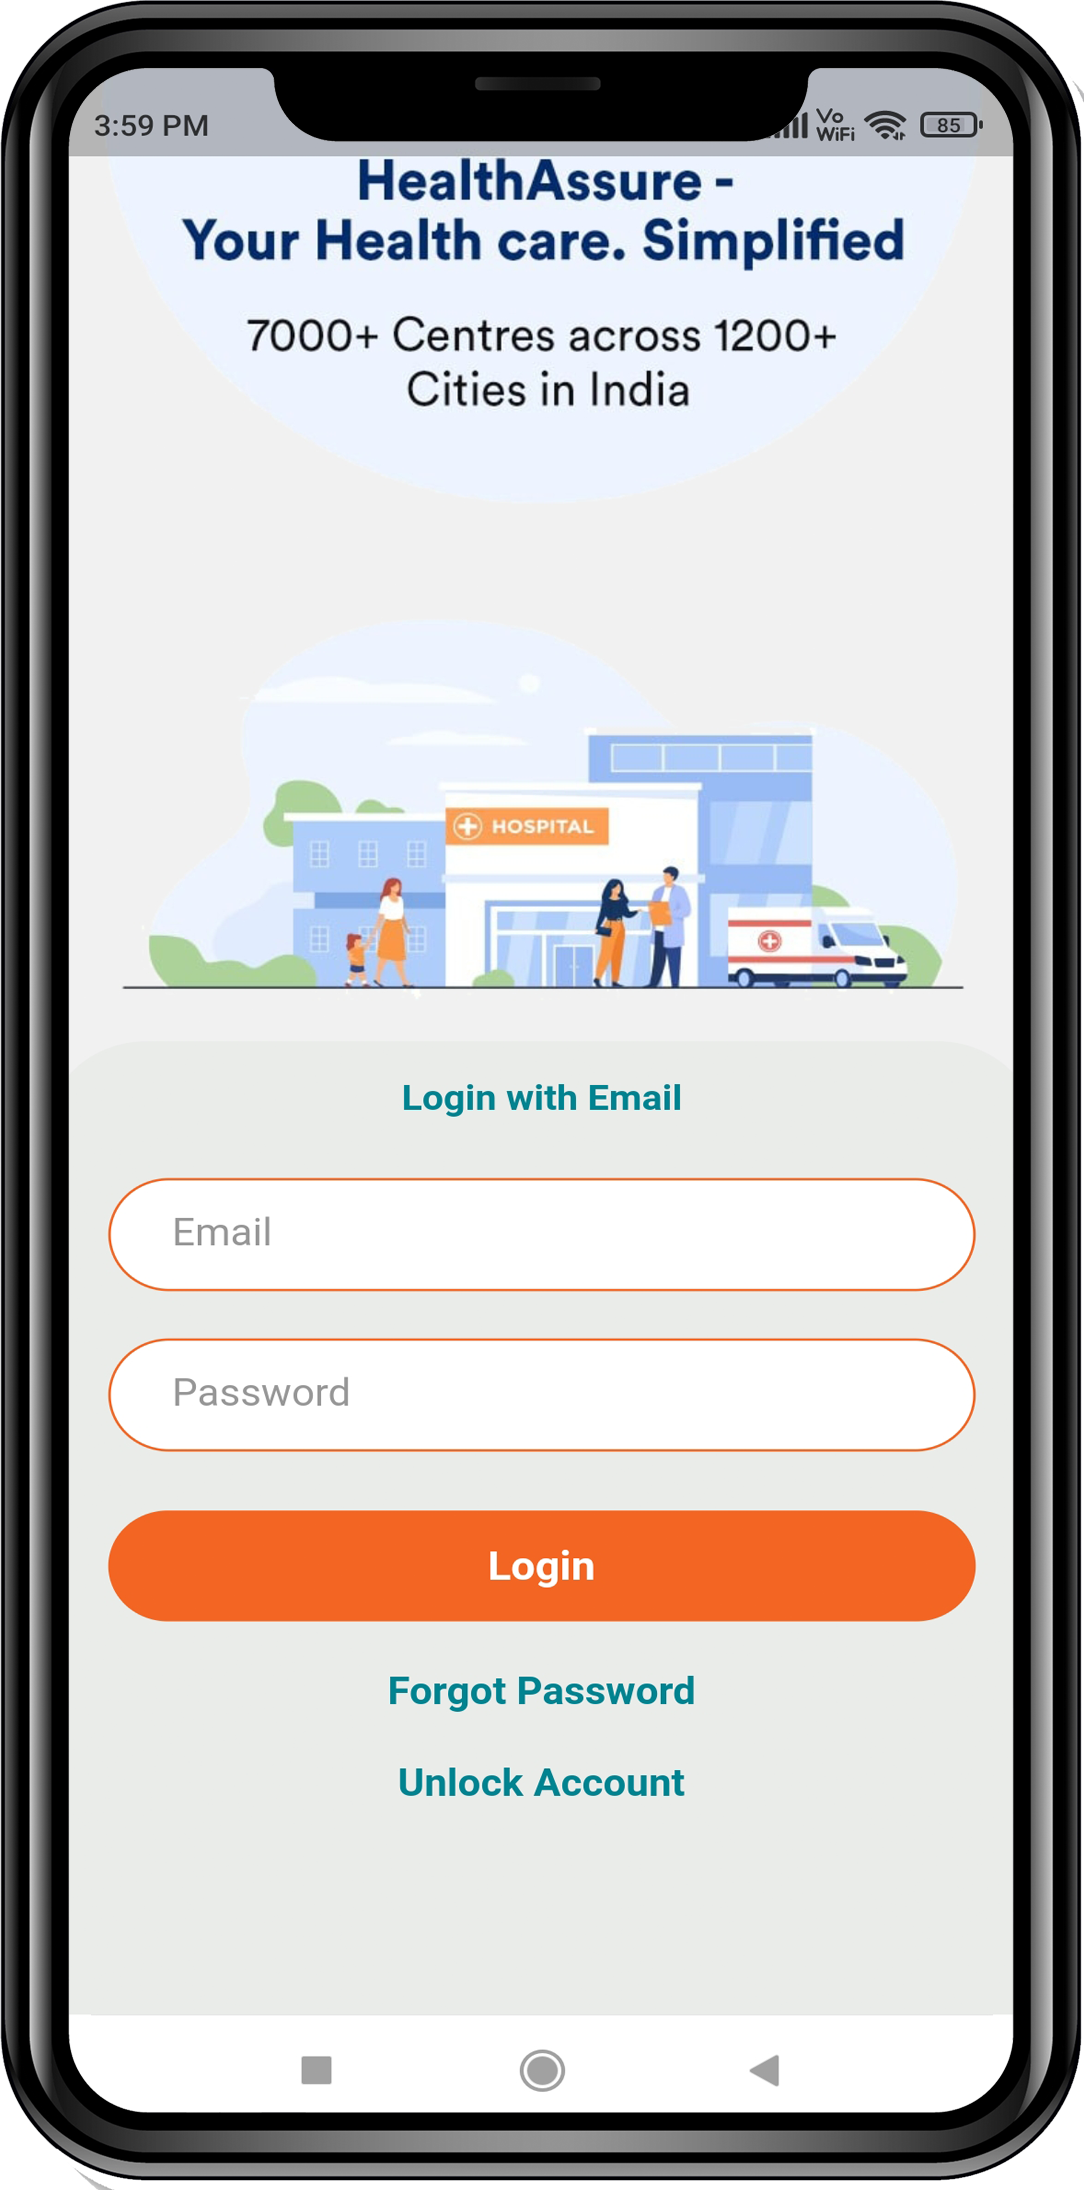
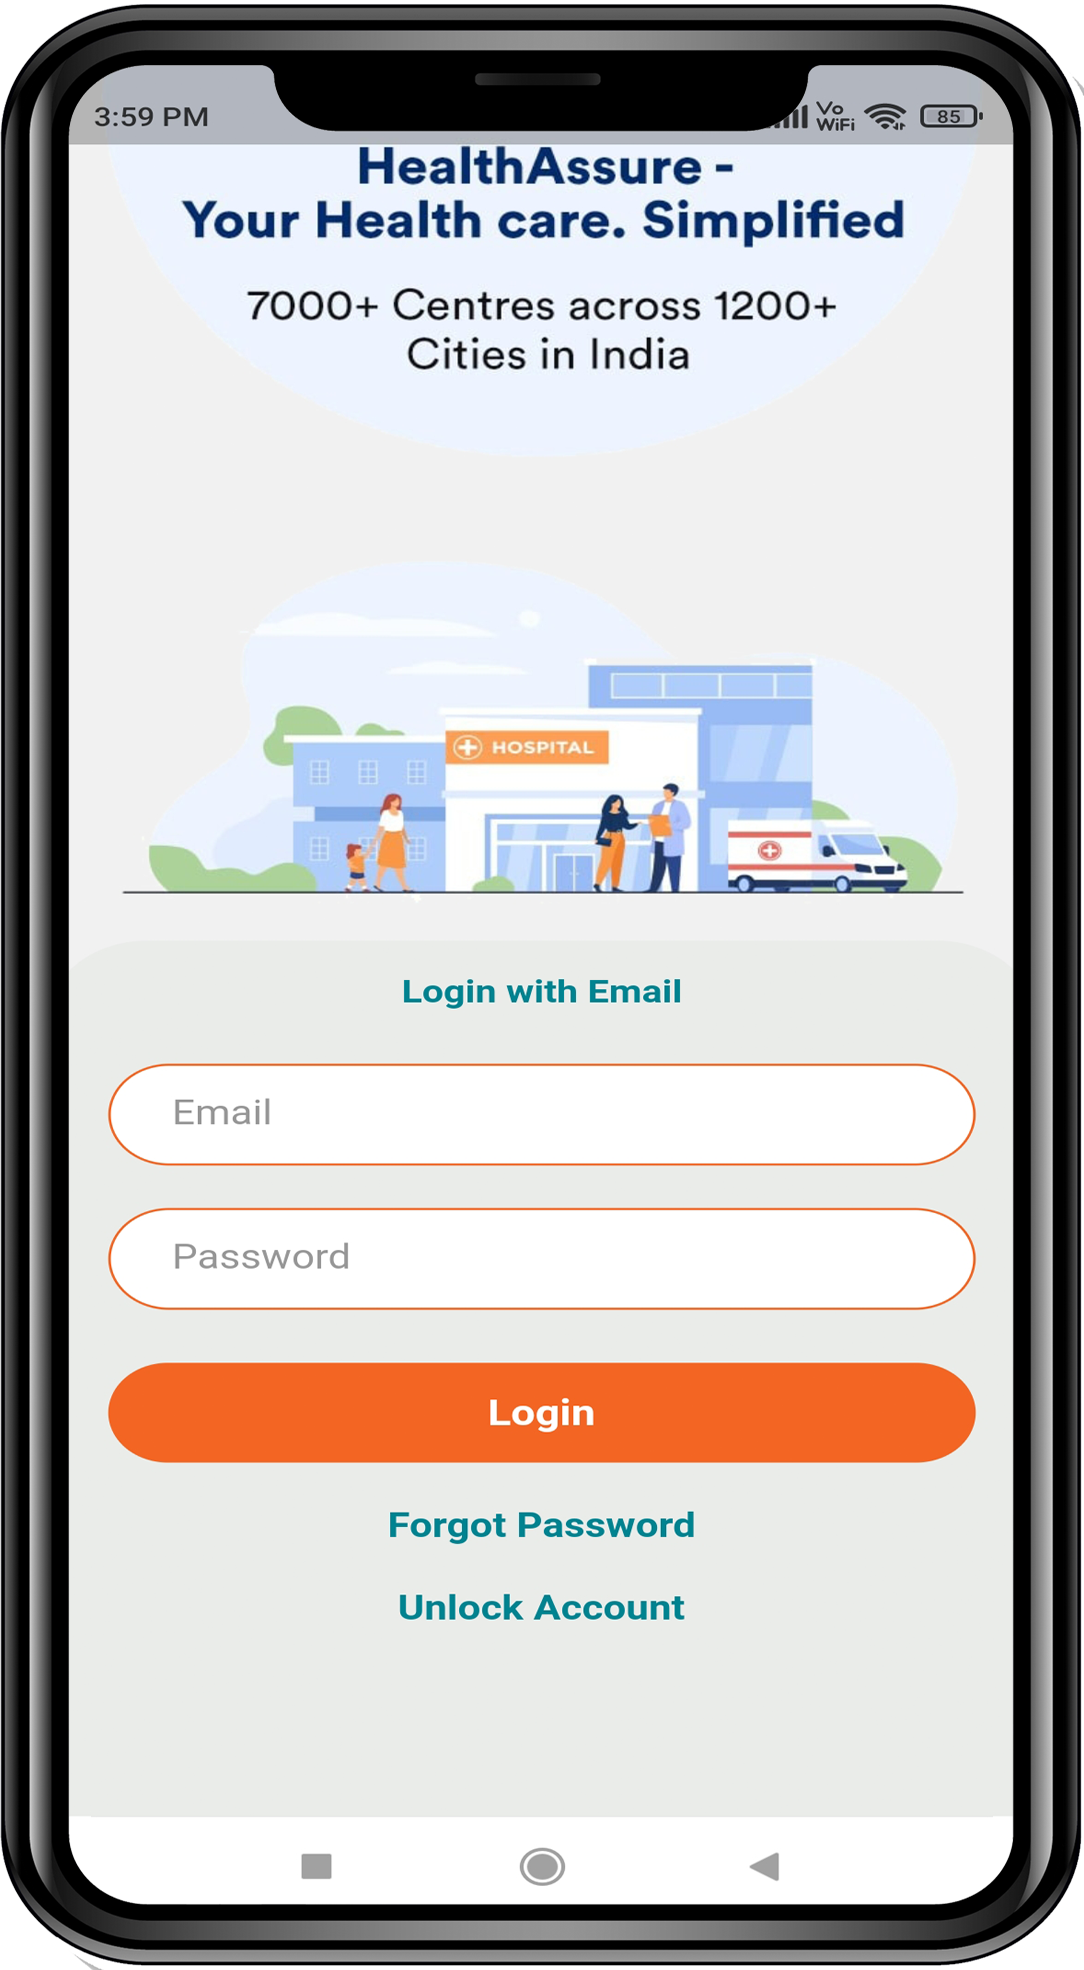
ace login

diff --git a/aceapp/welcome-emailer.html b/aceapp/welcome-emailer.html
@@ -305,7 +305,7 @@ cursor:default!important;
 <td align="left" valign="top" width="600" class="flexibleContainerCell">                  <table border="0" cellpadding="10" cellspacing="0" width="100%">
     <tr> 
 <td align="center" valign="top" width="270"> 
-<img src="https://healthassure.in/emailers/ace-login-mob-screen.png"  style="text-align: center; width:80%;">        </td>
+<img src="images/ace-login-mob-screen.png"  style="text-align: center; width:70%;">        </td>
 
 <td align="left" valign="top" width="280">  
 <p style="font-family: 'Poppins', sans-serif;text-align: left;font-weight: 600;margin-bottom: 0px;"><span style="font-size:20px;font-weight: 600;color:#002250;"> Gaurav Malik </span> </p>
